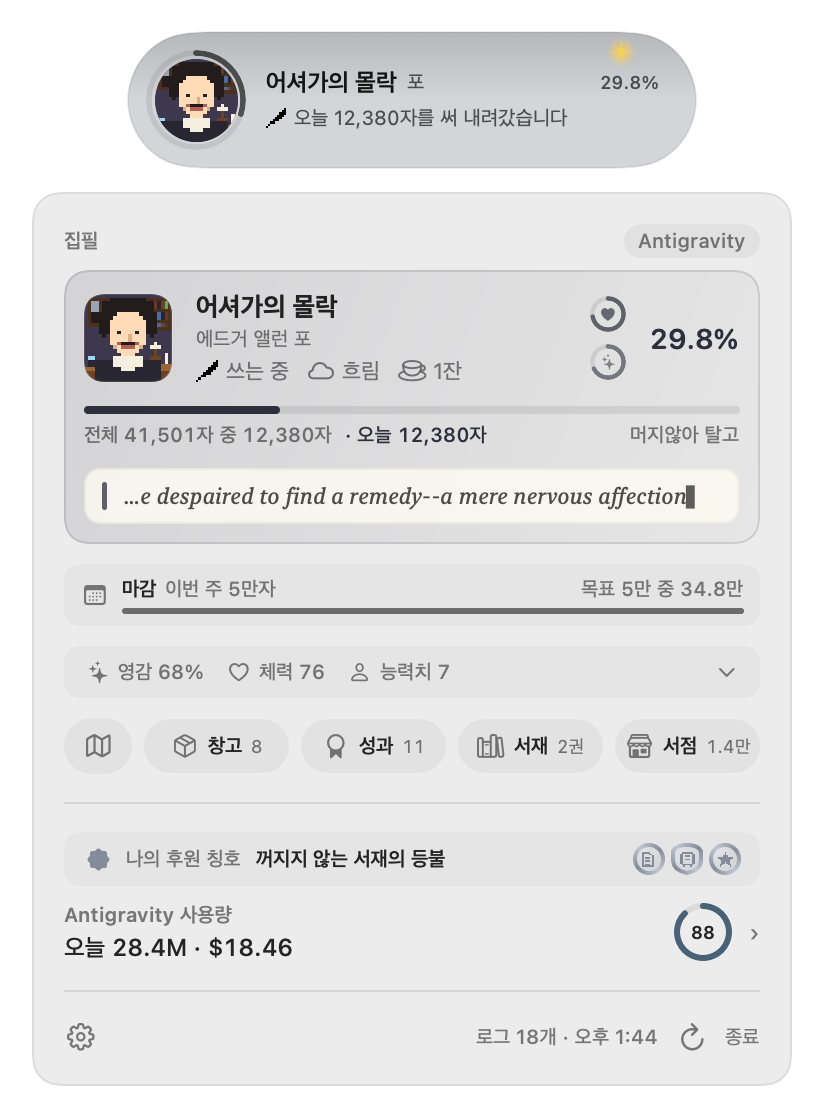
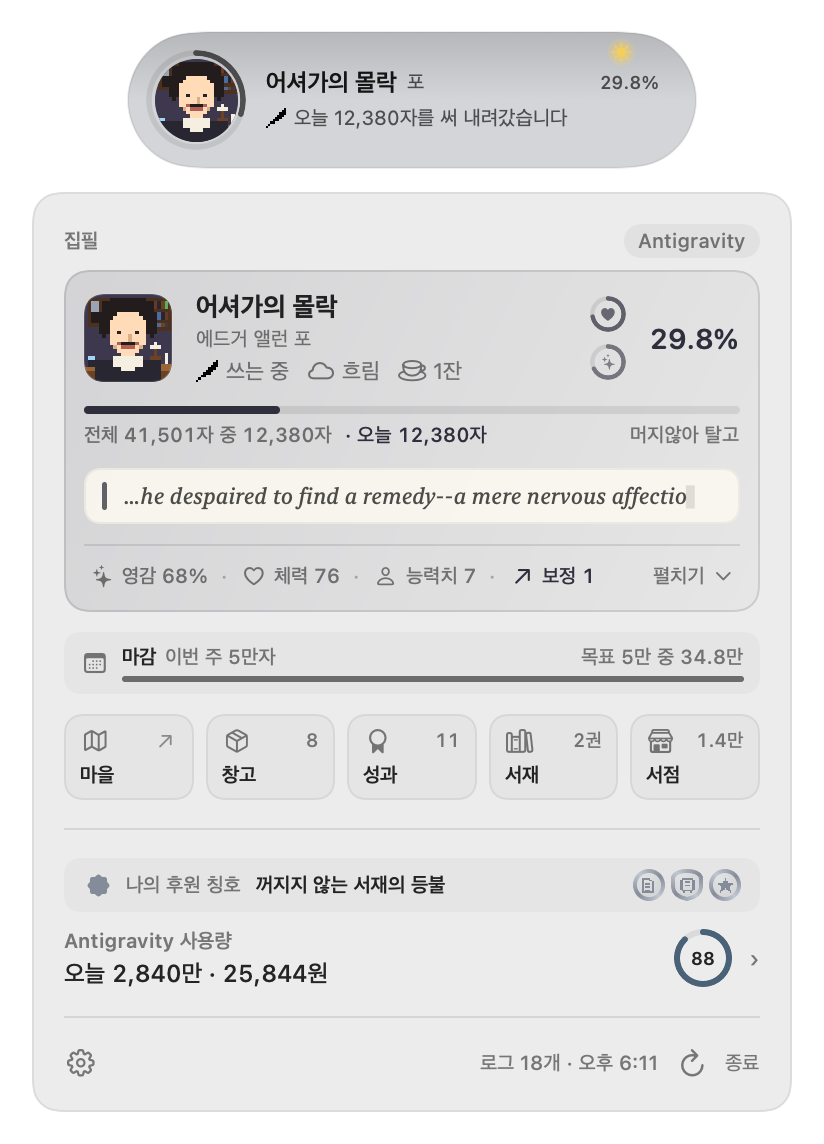
docs: refresh README screenshots with updated writing card drawer and usage insights

diff --git a/Sources/Scribe/Testing/SnapshotRenderer.swift b/Sources/Scribe/Testing/SnapshotRenderer.swift
@@ -409,6 +409,7 @@ extension Dump {
         state.studio = ["lamp", "shelf", "cat"]
         state.deadline = Deadline(weekStart: WritingStore.weekStart(of: now), kind: .characters, target: 50_000)
         state.inspiration = Int(Double(Balance.inspirationGaugeTokens) * 0.68)
+        state.boosts = [ActiveBoost(kind: .sales, value: 1.5, endsAt: now.addingTimeInterval(5 * 3600), source: "신문 소개")]
 
         var sheet = AuthorSheet()
         sheet.stats = ["pen": 3, "grit": 1, "charm": 2, "luck": 1]
@@ -475,7 +476,12 @@ extension Dump {
             days: days,
             todayByModel: models,
             todayByHour: hours,
+            twoWeekByHour: hours.map { $0 * 9 },
             recentFiveHourTokens: 16_300_000,
+            todayTurns: 92,
+            todayPeakTurnTokens: 640_000,
+            todayCacheSavedCost: 24.80,
+            twoWeekCacheSavedCost: 268.40,
             todayByProvider: [.antigravity: 28_400_000, .claude: 14_200_000],
             todayCostByProvider: [.antigravity: 18.46, .claude: 9.80],
             filesByProvider: [.antigravity: 18, .claude: 12],
